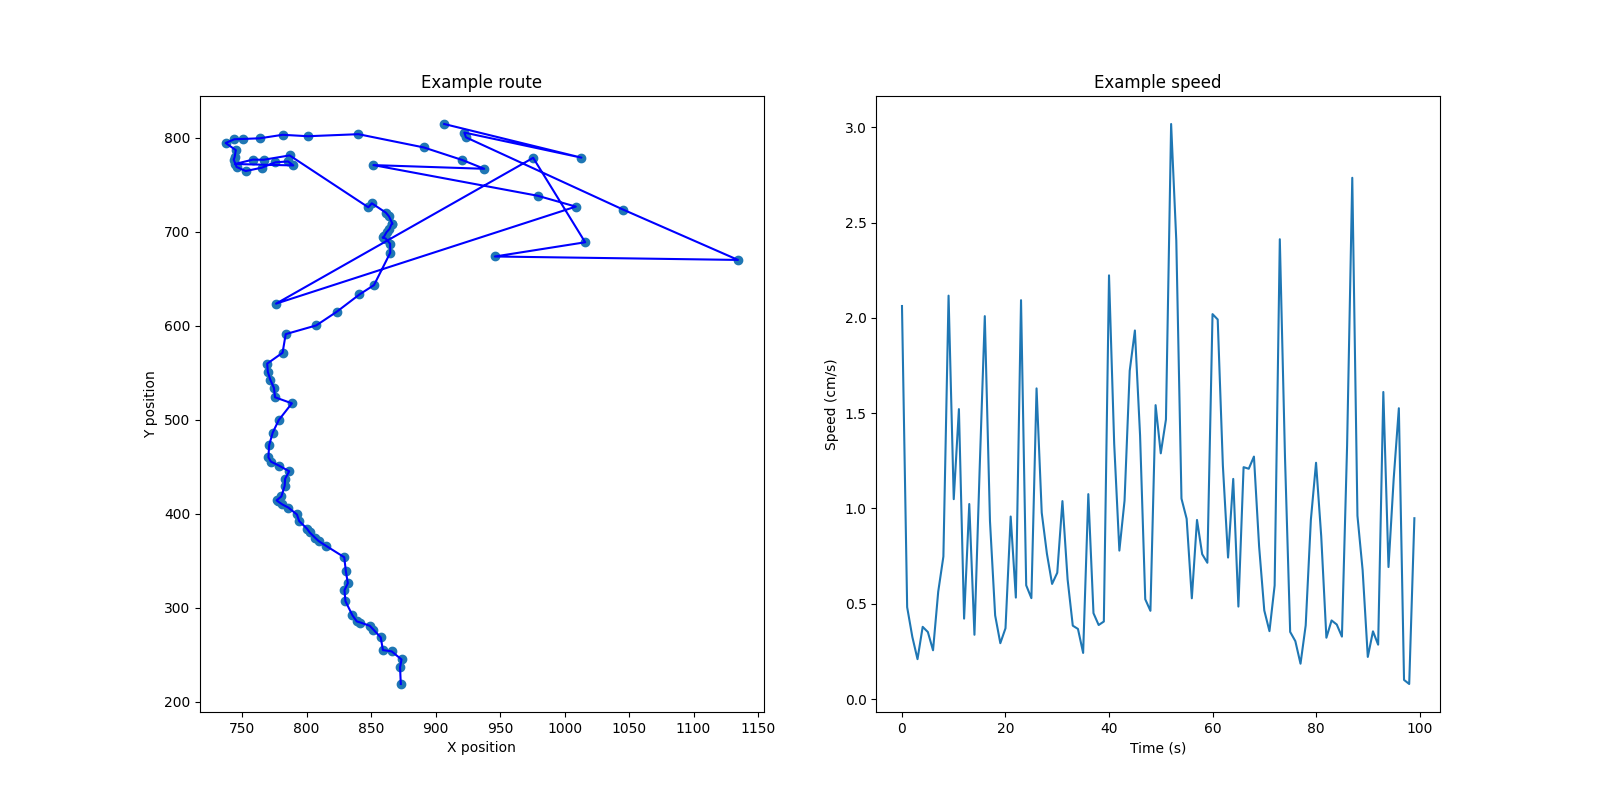
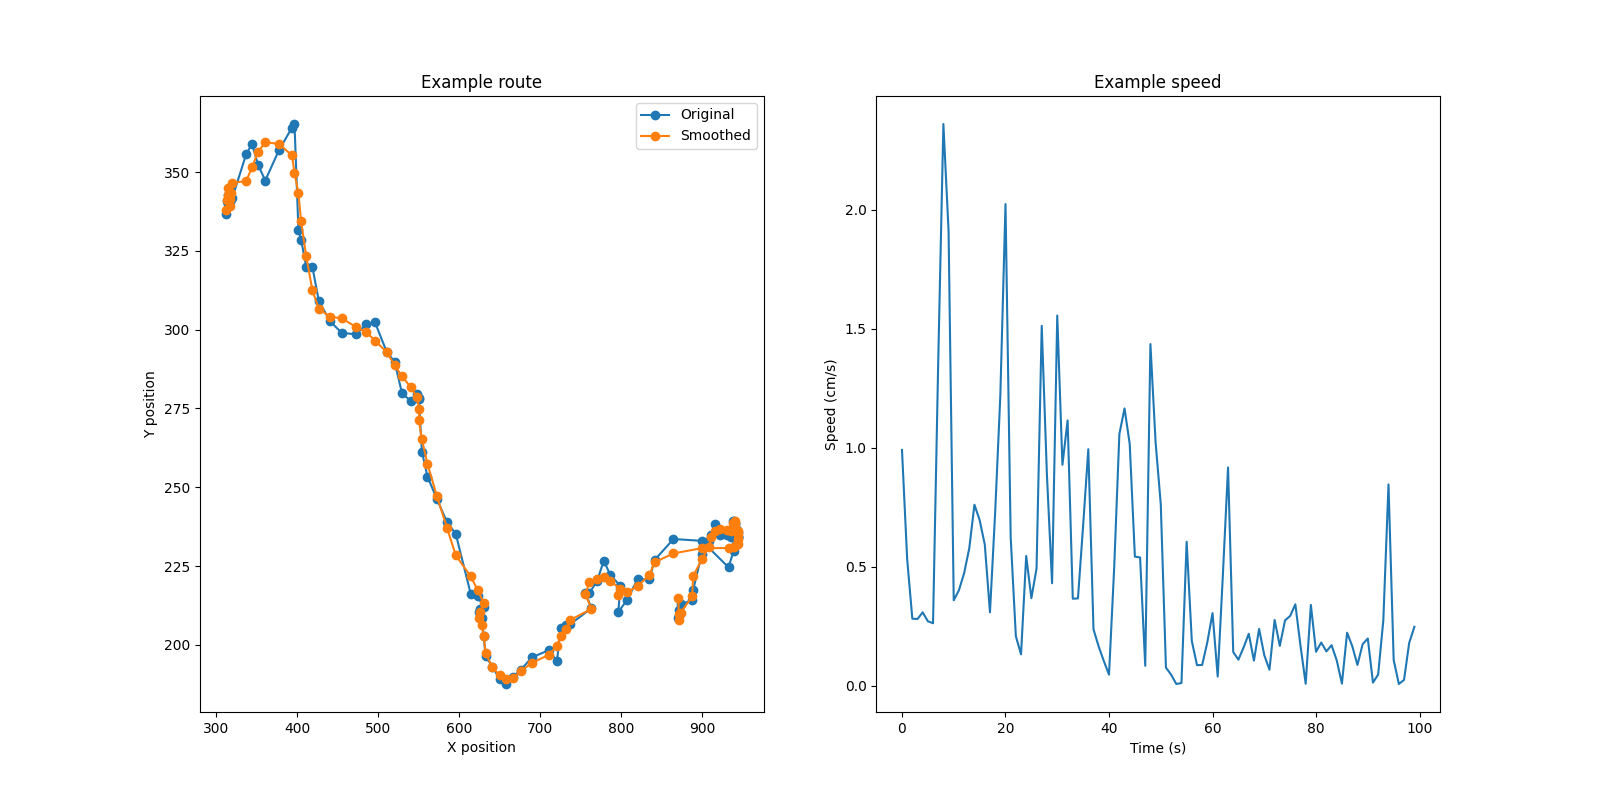
:white_check_mark: Update smoothing test.

diff --git a/examples/examples_motion.py b/examples/examples_motion.py
@@ -16,18 +16,22 @@ x_nose, y_nose = list(map(float, dlc['nose'][1:])), list(map(float, dlc['nose.1'
 # Make 'route' with coordinates
 route = np.array([x_nose, y_nose])
 
+# Smooth route
+smoothed_route = motion.smooth_route(route, window_size=15)
+
 # Compute speed
 """ Be sure to use the adequate 'fps' and 'pixel_for_cm' for your device. """
-speed = motion.compute_speed(route, fps=30, pixel_for_cm=30)
+speed = motion.compute_speed(smoothed_route, fps=30, pixel_for_cm=30)
 
 # Display example plots
 fig, (ax1, ax2) = plt.subplots(1, 2, figsize=(16, 8))
-ax1.scatter(route[0, 0:100], route[1, 0:100])
-ax1.plot(route[0, 0:100], route[1, 0:100], 'b')
+ax1.plot(route[0, 100:200], route[1, 100:200], '-o', label='Original')
+ax1.plot(smoothed_route[0, 100:200], smoothed_route[1, 100:200], '-o', label='Smoothed')
 ax1.set_title('Example route')
 ax1.set_xlabel('X position')
 ax1.set_ylabel('Y position')
-ax2.plot(speed[0:100])
+ax1.legend()
+ax2.plot(speed[100:200])
 ax2.set_title('Example speed')
 ax2.set_xlabel('Time (s)')
 ax2.set_ylabel('Speed (cm/s)')

diff --git a/examples/examples_detect_freezing.py b/examples/examples_detect_freezing.py
@@ -16,9 +16,12 @@ x_nose, y_nose = list(map(float, dlc['nose'][1:])), list(map(float, dlc['nose.1'
 # Make 'route' with coordinates
 route = np.array([x_nose, y_nose])
 
+# Smooth route
+smoothed_route = motion.smooth_route(route, window_size=15)
+
 # Compute speed
 """ Be sure to use the adequate 'fps' and 'pixel_for_cm' for your device. """
-speed = motion.compute_speed(route, fps=30, pixel_for_cm=30)
+speed = motion.compute_speed(smoothed_route, fps=30, pixel_for_cm=30)
 
 # Detect freezing
 """ The parameter, freezing_threshold can be assigned manually or average speed during baseline 
